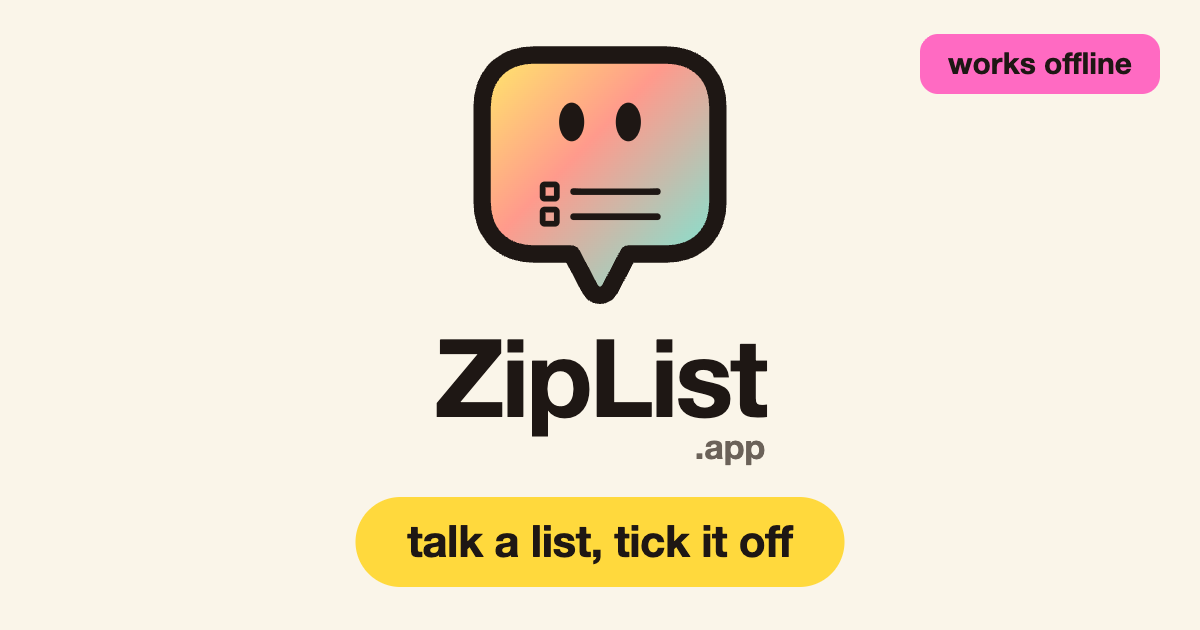
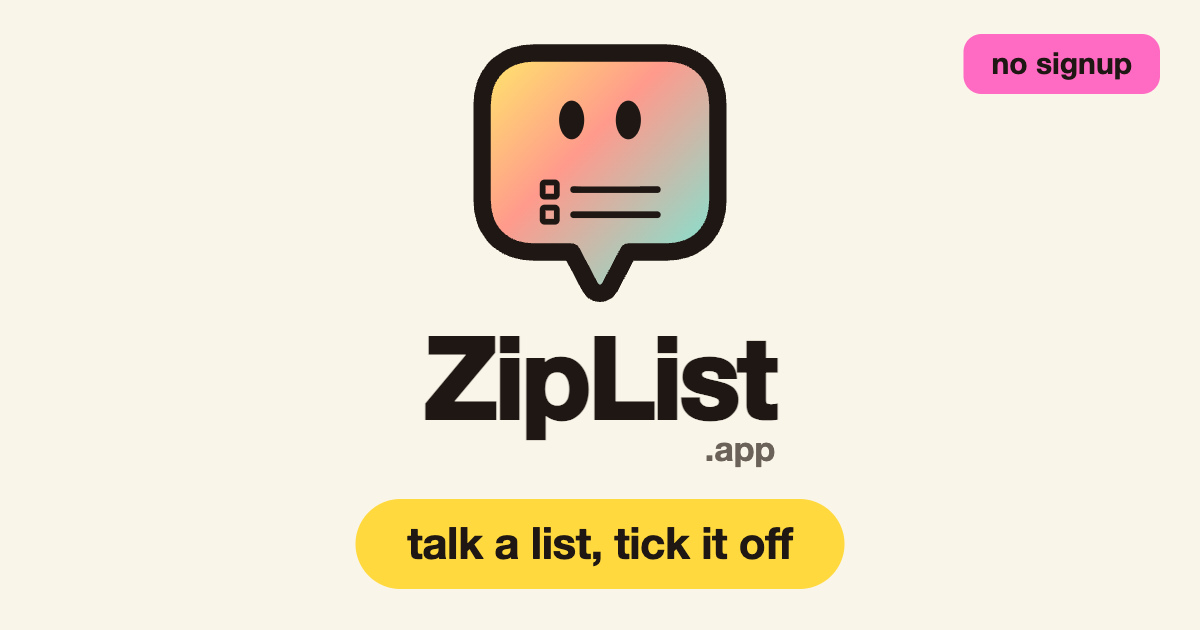
fix: 💅 card v2 — fatter wordmark, honest badge
Pablo's notes: ZipList doesn't actually work offline (README overclaims),
so the badge is now 'no signup' (the intro modal's own words). Wordmark
gets a 4px stroke to match the TalkType reference chunk.

Claude-Session: https://claude.ai/code/session_01CtL8w78u44e7rJgeWVMfvq

diff --git a/src/lib/components/layout/PageLayout.svelte b/src/lib/components/layout/PageLayout.svelte
@@ -15,7 +15,7 @@
   export let ogImage = "https://ziplist.app/og-card.png";
   // Describes og-card.png as it actually is — TalkType-formula card since 2026-08-07.
   export let ogImageAlt =
-    "ZipList's speech-bubble mascot above the ZipList.app wordmark and a yellow strip reading: talk a list, tick it off.";
+    "ZipList's speech-bubble mascot above the ZipList.app wordmark and a yellow strip reading: talk a list, tick it off, with a pink no-signup badge.";
   export let ogType = "website";
   export let footerYear = new Date().getFullYear();
   export let appName = "ZipList";
